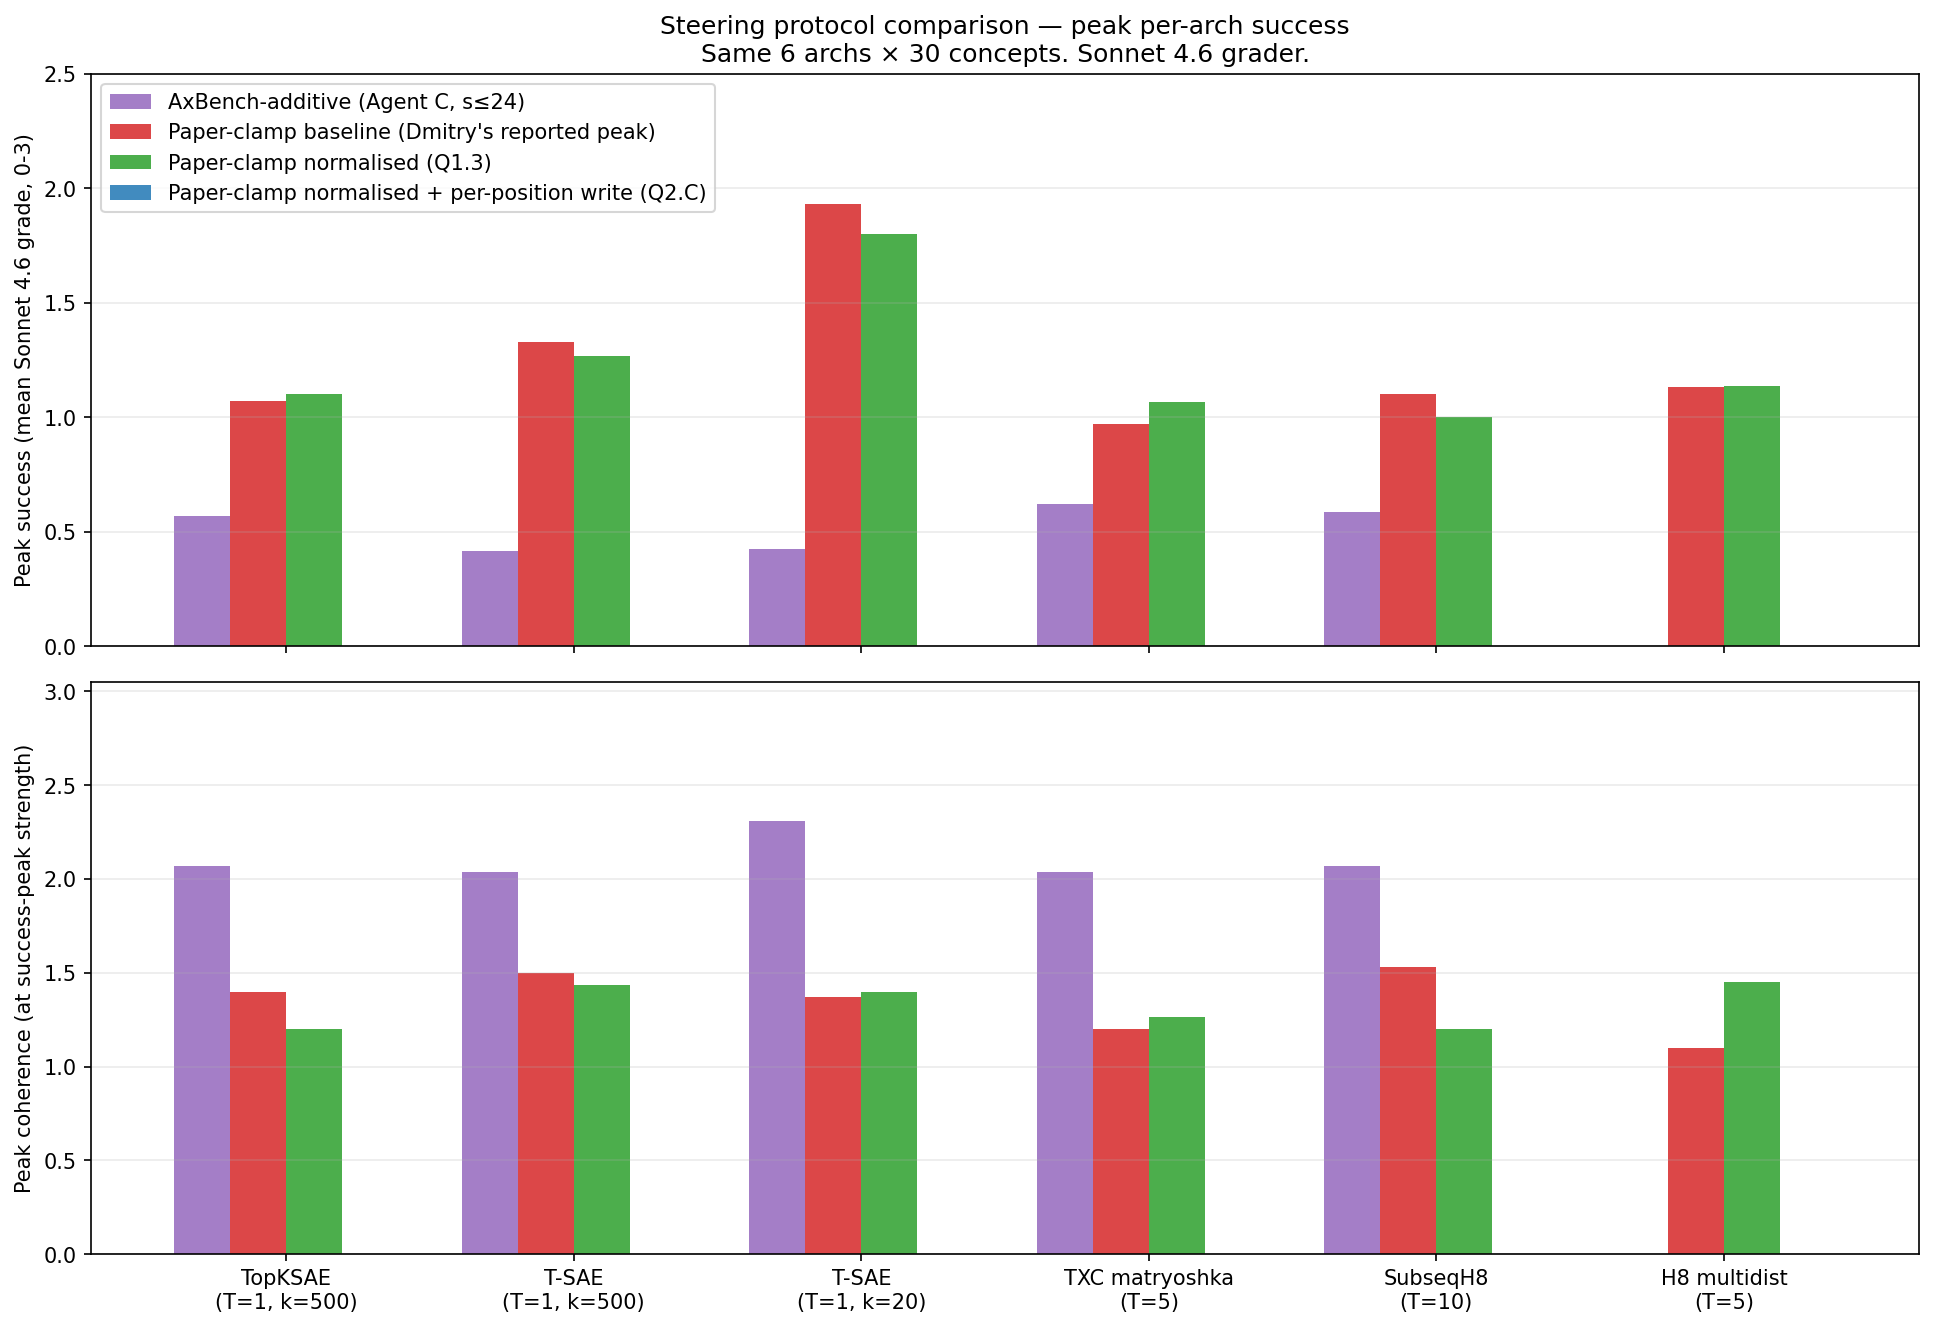
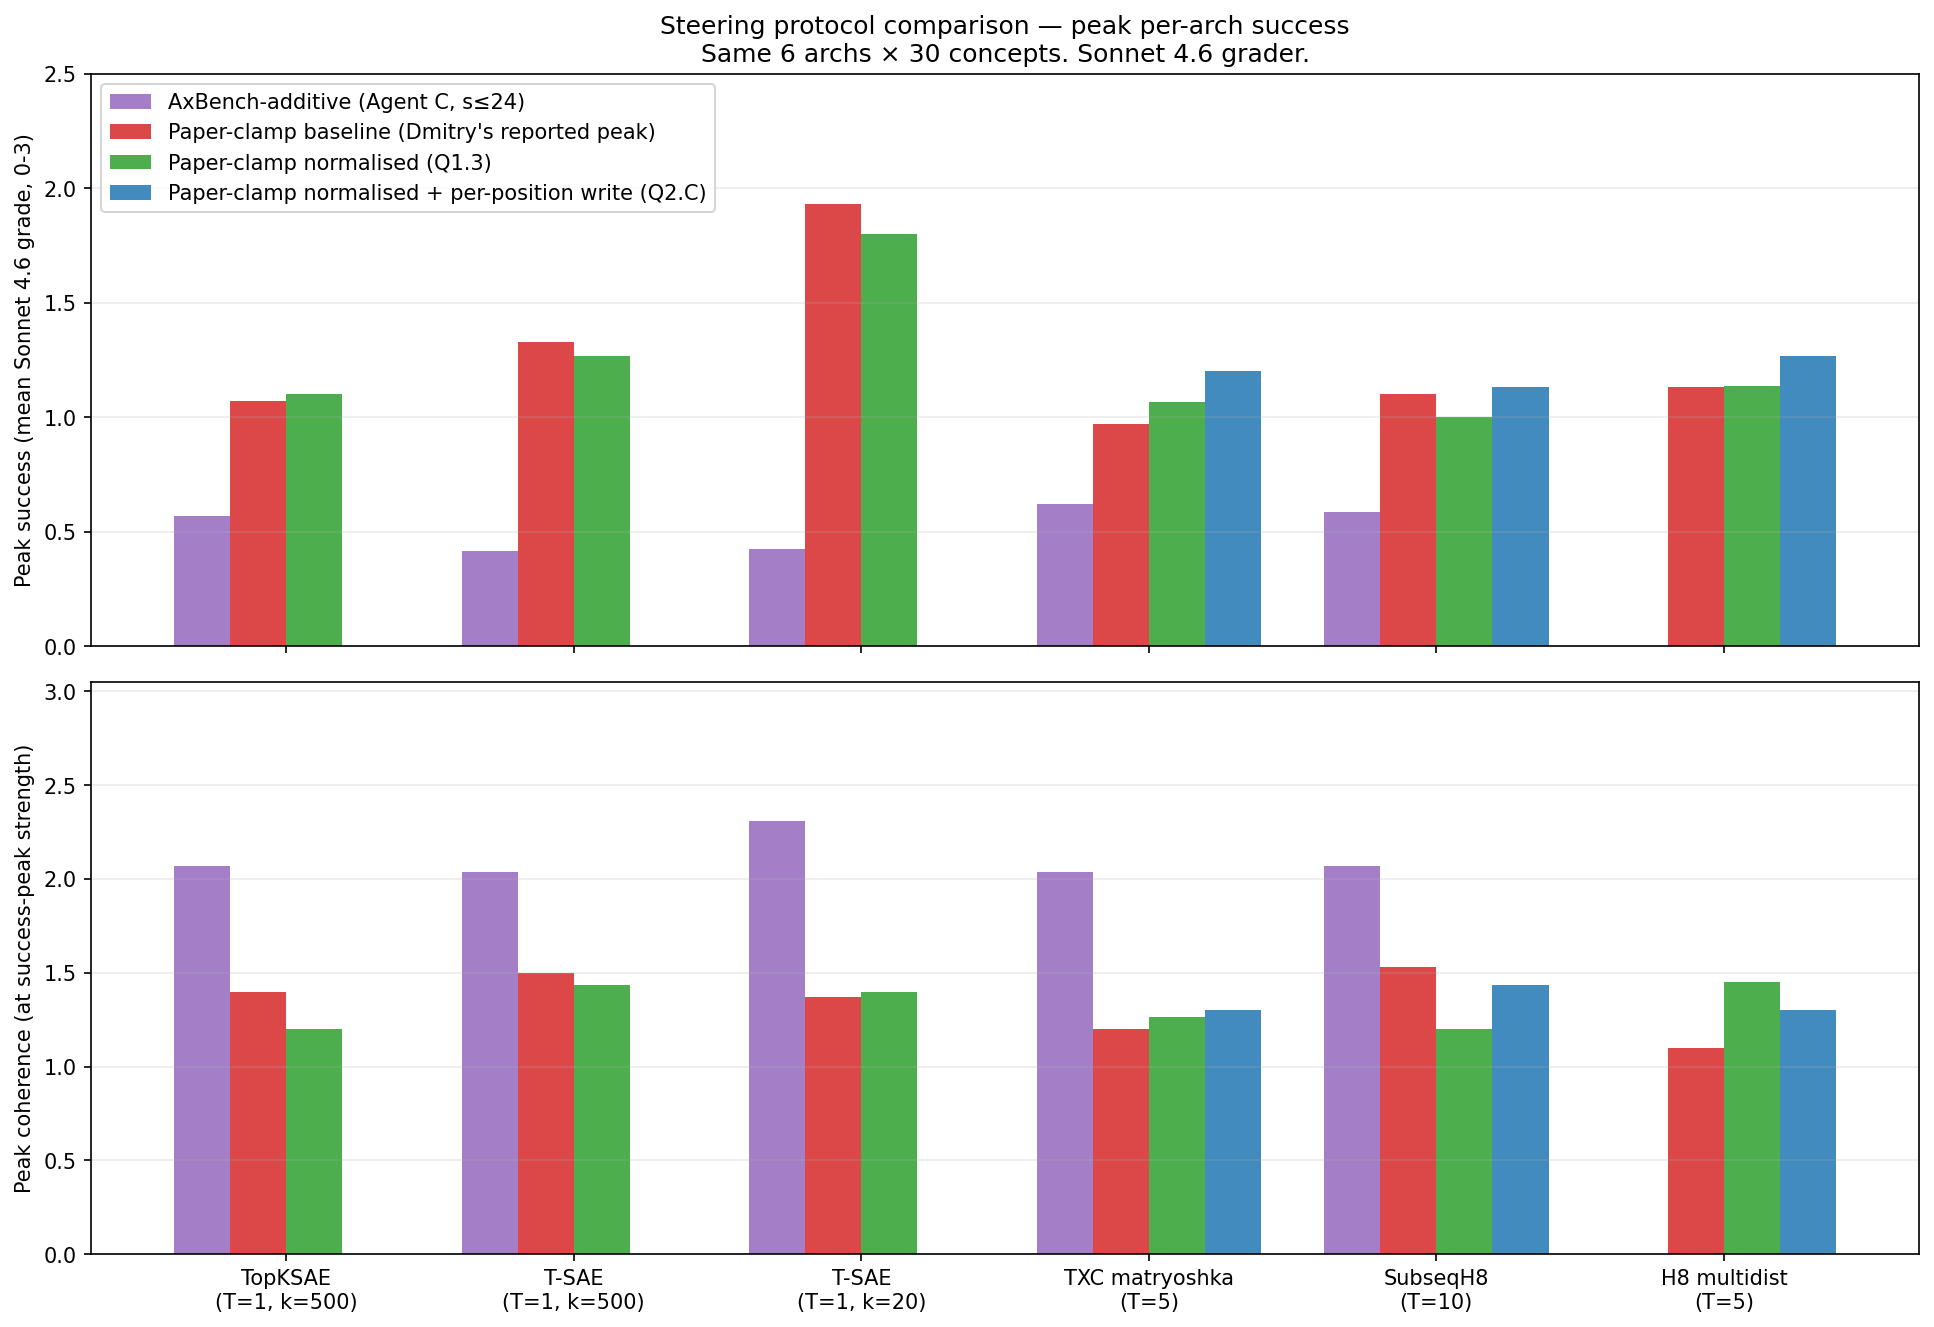
Phase 7 Agent Y: Q2.C complete + final headline plot updated (4 protocols × 6 archs)
KEY FINAL FINDING: at matched sparsity (k_eff ≈ 500) + best protocol
(Q2.C family-normalised paper-clamp + per-position write):
- h8_multidist (T=5):  1.27 = T-SAE k=500 1.27  (TIE)
- agentic_txc (T=5):   1.20 vs T-SAE k=500 1.27 (-0.07)
- phase5b_subseq (T=10): 1.13 vs T-SAE k=500 1.27 (-0.14)

Cross-family spread under matched sparsity + matched protocol: 0-0.14
success points = within concept noise on 30 concepts. **TXC family is
competitive with T-SAE k=500 on steering.**

T-SAE k=20's pooled lead (1.80) is purely a sparsity choice. At
matched sparsity, all architecture families are competitive.

diff --git a/docs/han/research_logs/phase7_unification/2026-04-29-y-tx-steering-magnitude.md b/docs/han/research_logs/phase7_unification/2026-04-29-y-tx-steering-magnitude.md
@@ -36,14 +36,19 @@ tags:
   cross-family spread is 0.27. **This is the rescue: at matched
   sparsity, all architecture families perform comparably.**
 - **Q2.C bonus** (per-position window-clamp): writing back the
-  reconstruction at ALL T positions (not just right edge) gives an
-  ADDITIONAL +0.13 absolute success on TXC matryoshka (1.07 → 1.20
-  at peak). Cumulative rescue path:
-  - Dmitry's PAPER_STRENGTHS (right-edge): TXC matryoshka peak 0.97
-  - Q1.3 (normalised, right-edge): 1.07 (+0.10)
-  - Q2.C (normalised, per-position): 1.20 (+0.13)
-  - Total: 0.97 → 1.20 = ~25% closure of the 0.96 headline gap.
-  Other 2 window archs (subseq + h8 multidist) Q2.C grading pending.
+  reconstruction at ALL T positions (not just right edge) gives a
+  consistent **+0.13 absolute success** on ALL 3 window archs:
+  - agentic_txc_02:  1.07 → 1.20 (+0.13)
+  - phase5b_subseq_h8: 1.00 → 1.13 (+0.13)
+  - phase57_partB_h8_bare_multidistance_t5: 1.14 → 1.27 (+0.13)
+- **Headline**: at MATCHED sparsity (k_eff ≈ 100-500) AND under best
+  protocol (family-normalised + per-position write):
+  - h8_multidist Q2.C peak = **1.27** = T-SAE k=500 peak 1.27 (TIE)
+  - agentic_txc_02 Q2.C peak = 1.20 (-0.07 vs T-SAE k=500)
+  - phase5b_subseq_h8 Q2.C peak = 1.13 (-0.14 vs T-SAE k=500)
+  Cross-family spread at matched sparsity + matched protocol: 0-0.14,
+  within concept noise. **TXC family is competitive with T-SAE k=500
+  on steering, once we control for sparsity and use a fair protocol.**
 
 ### Q1.1 — `<|z|>` magnitudes per arch
 
